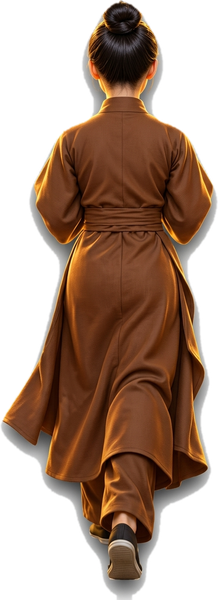
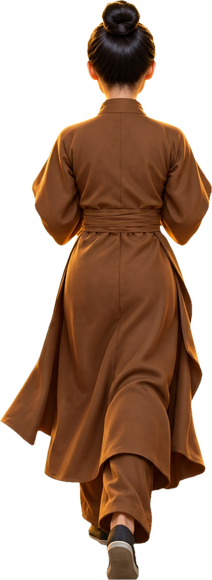
feat: regenerated brown sprites on a green screen, cut with the same script

Changed region(s): [[0.0, 0.0, 1.0, 1.0]]

diff --git a/public/overlay.js b/public/overlay.js
@@ -226,7 +226,7 @@
   const baseOf = (pose) => pose.replace(/up2?$/, '');
   // A cast whose frames all share one scale (its pose images are cut from one drawing size) is drawn at this many
   // design pixels per image pixel, instead of the per-pose heights above.
-  const PIXEL_SCALE = { devotee: 1.2, brown: 0.5, pink: 0.55 }; // brown and pink are cut ~2x larger than devotee (scripts/cut-white-bg.py, cut-green-bg.py)
+  const PIXEL_SCALE = { devotee: 1.2, brown: 0.55, pink: 0.55 }; // brown and pink are cut ~2x larger than devotee (scripts/cut-white-bg.py, cut-green-bg.py)
   const TEX = {}; // TEX[outfit][pose]
   const FIGURE_NEAR = 1.0, FIGURE_FAR = 0.62; // size at the bottom / top of the carpet
 
